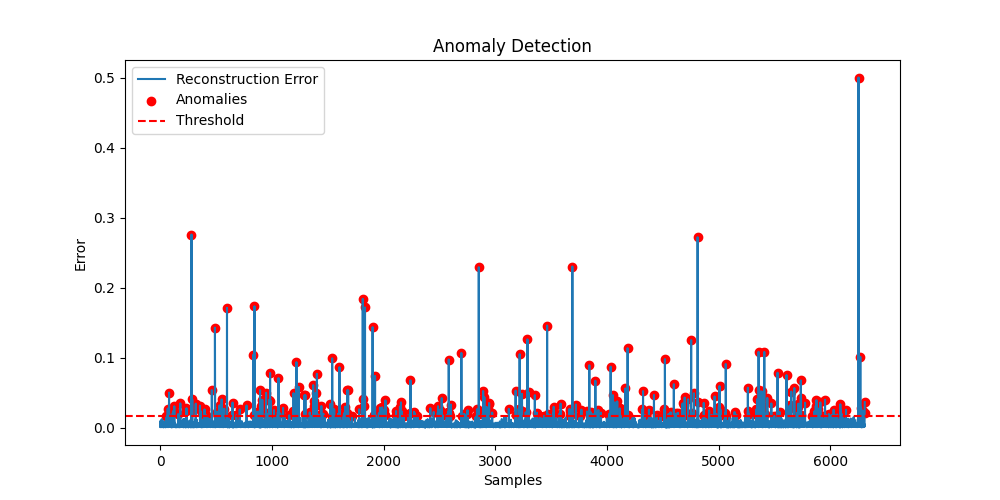
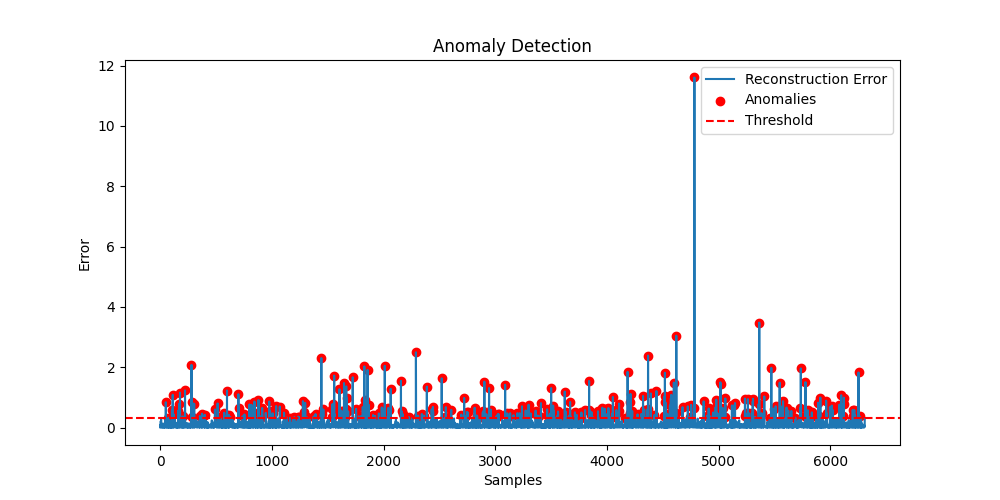
Improved autoencoder anomaly detection model

diff --git a/ml_pipeline/train_anomaly.py b/ml_pipeline/train_anomaly.py
@@ -41,10 +41,10 @@ X_train, X_test = train_test_split(X, test_size=0.2, random_state=42)
 input_dim = X.shape[1]
 
 input_layer = Input(shape=(input_dim,))
-encoded = Dense(16, activation="relu")(input_layer)
-encoded = Dense(8, activation="relu")(encoded)
+encoded = Dense(32, activation="relu")(input_layer)
+encoded = Dense(16, activation="relu")(encoded)
 
-decoded = Dense(16, activation="relu")(encoded)
+decoded = Dense(8, activation="relu")(encoded)
 decoded = Dense(input_dim, activation="linear")(decoded)
 
 autoencoder = Model(inputs=input_layer, outputs=decoded)
@@ -55,7 +55,7 @@ print("\n✅ Model built")
 # 🔹 Step 8: Train model
 history = autoencoder.fit(
     X_train, X_train,
-    epochs=20,
+    epochs=50,
     batch_size=32,
     validation_data=(X_test, X_test),
     verbose=1
